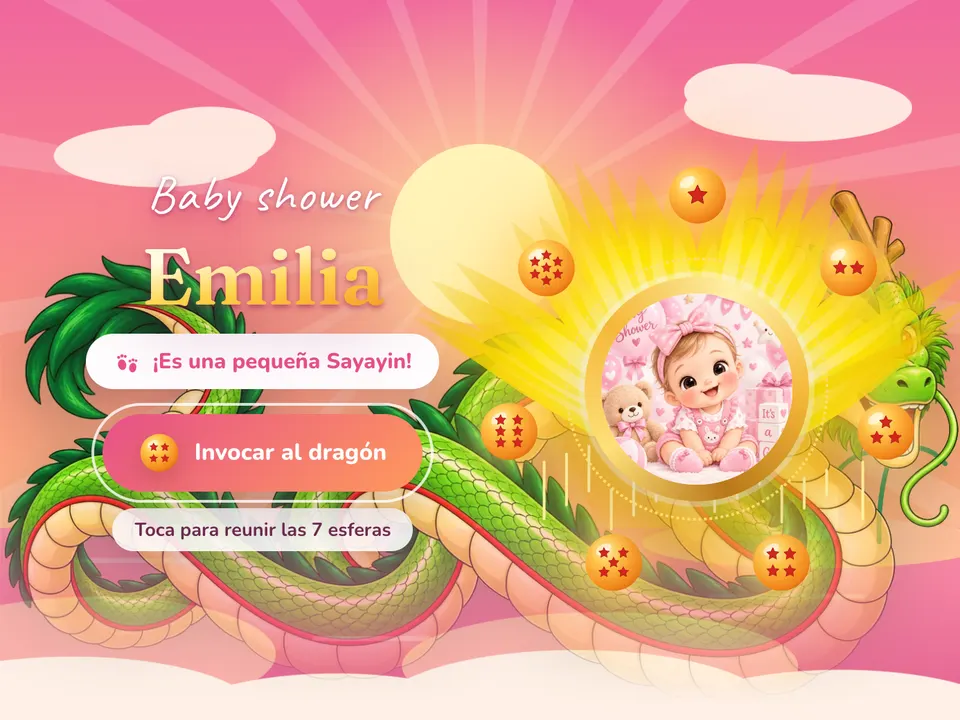
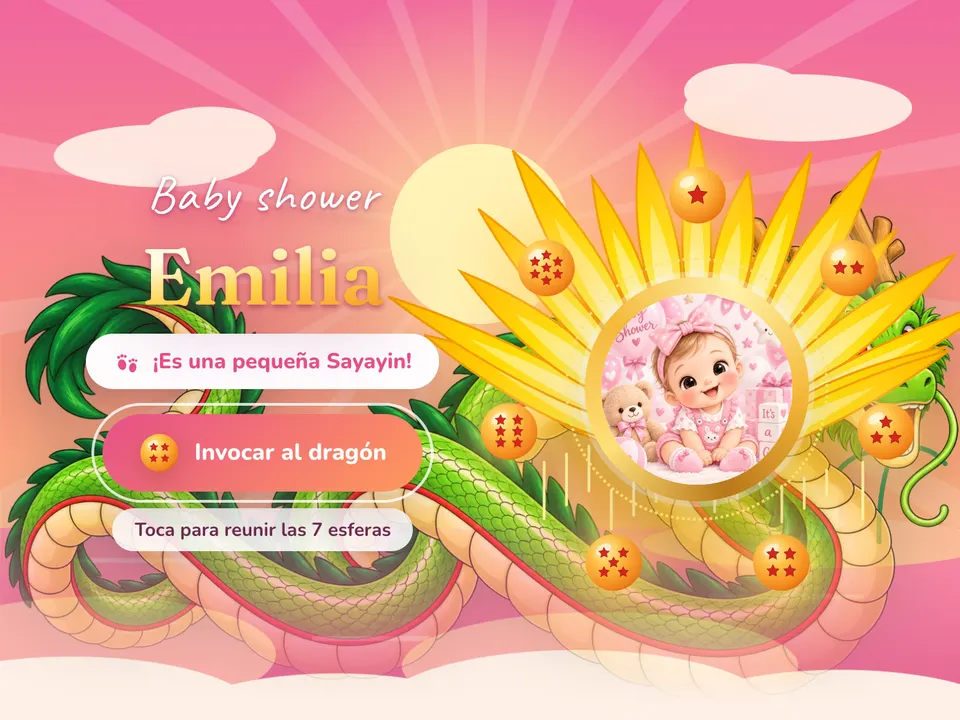
Baby shower dragón: rayos del aura con punta y cápsula que navega por la pantalla

Changed region(s): [[0.4062, 0.1833, 1.0, 0.6111], [0.7812, 0.6722, 0.8438, 0.7333], [0.5625, 0.6722, 0.5938, 0.7028]]

diff --git a/src/templates/baby-shower-dragon/styles.css b/src/templates/baby-shower-dragon/styles.css
@@ -1033,11 +1033,11 @@
 .bsd[data-lit] .bsd-cover__dragon {
   opacity: 0.96;
   transform: none;
-  transition: transform 2.4s cubic-bezier(0.2, 0.8, 0.2, 1) 2.1s, opacity 1s ease 2.1s;
+  transition: transform 2.4s cubic-bezier(0.2, 0.8, 0.2, 1) 3.9s, opacity 1s ease 3.9s;
 }
 
 .bsd[data-open] .bsd-eyebrow {
-  animation: bsd-pop 0.7s cubic-bezier(0.3, 1.5, 0.5, 1) 2s both;
+  animation: bsd-pop 0.7s cubic-bezier(0.3, 1.5, 0.5, 1) 3.6s both;
 }
 
 @keyframes bsd-orbit {
@@ -1098,7 +1098,7 @@
   z-index: -1;
   background: radial-gradient(closest-side, rgb(110 20 60 / 0.55), transparent);
   opacity: 0;
-  transition: opacity 1s ease 2.1s;
+  transition: opacity 1s ease 3.6s;
   pointer-events: none;
 }
 
@@ -1219,7 +1219,6 @@
   transform: translate(-50%, -50%);
   overflow: visible;
   pointer-events: none;
-  filter: drop-shadow(0 0 14px rgb(255 200 40 / 0.7));
 }
 
 .bsd-aura__flame {
@@ -1268,7 +1267,7 @@
 
 /* El dragón se mueve con calma: sube y baja con un poco de zoom (después de aparecer) */
 .bsd[data-lit] .bsd-cover__dragon {
-  animation: bsd-drift 9s ease-in-out 4.6s infinite alternate;
+  animation: bsd-drift 9s ease-in-out 6.5s infinite alternate;
 }
 
 .bsd[data-calm] .bsd-cover__dragon {
@@ -1355,7 +1354,7 @@
   }
 }
 
-/* Portada: la cápsula al centro; al invocar gira una vuelta completa, destella y aparece la foto en su lugar */
+/* Portada: la cápsula al centro; al invocar navega por la pantalla, vuelve al centro, destella y aparece la foto */
 .bsd-stage__pod {
   position: absolute;
   top: 50%;
@@ -1383,18 +1382,24 @@
 .bsd[data-lit] .bsd-stage .bsd-medallion {
   opacity: 1;
   transform: none;
-  transition: opacity 0.5s ease 1.45s, transform 0.7s cubic-bezier(0.2, 1.4, 0.4, 1) 1.45s;
+  transition: opacity 0.5s ease 3.15s, transform 0.7s cubic-bezier(0.2, 1.4, 0.4, 1) 3.15s;
 }
 
 .bsd[data-lit] .bsd-stage__pod {
-  animation: bsd-pod-spin 1.7s cubic-bezier(0.5, 0, 0.3, 1) both;
+  animation: bsd-pod-fly 3.4s linear both;
 }
 
-@keyframes bsd-pod-spin {
-  0% { transform: rotate(0) scale(1); opacity: 1; filter: none; }
-  65% { transform: rotate(360deg) scale(1.12); opacity: 1; filter: none; }
-  85% { transform: rotate(360deg) scale(1.3); opacity: 1; filter: brightness(2.2); }
-  100% { transform: rotate(360deg) scale(1.6); opacity: 0; filter: brightness(3); }
+/* La cápsula navega: sale por la izquierda, reaparece por la derecha subiendo y vuelve al centro */
+@keyframes bsd-pod-fly {
+  0% { transform: translate(0, 0) rotate(0); opacity: 1; filter: none; animation-timing-function: cubic-bezier(0.5, 0, 0.9, 0.6); }
+  24% { transform: translate(-125vw, -4vh) rotate(-10deg); opacity: 1; }
+  24.2% { transform: translate(-125vw, -4vh) rotate(-10deg); opacity: 0; }
+  24.4% { transform: translate(125vw, 14vh) rotate(-4deg); opacity: 0; }
+  24.6% { transform: translate(125vw, 14vh) rotate(-4deg); opacity: 1; animation-timing-function: cubic-bezier(0.2, 0.6, 0.4, 1); }
+  62% { transform: translate(52vw, -16vh) rotate(-14deg); opacity: 1; }
+  86% { transform: translate(0, 0) rotate(0); opacity: 1; filter: none; }
+  93% { transform: translate(0, 0) scale(1.3); opacity: 1; filter: brightness(2.2); }
+  100% { transform: translate(0, 0) scale(1.6); opacity: 0; filter: brightness(3); }
 }
 
 /* Sin animación (miniatura, movimiento reducido): directo a la foto */

diff --git a/src/templates/baby-shower-dragon/Dragon.jsx b/src/templates/baby-shower-dragon/Dragon.jsx
@@ -93,15 +93,15 @@ const jit = (i) => ((i * 37 + 11) % 13) / 13; // 0..1 fijo: el render es estable
 // Cada rayo: [x de la base, y de la base, ángulo (grados desde arriba), largo, medio ancho]
 const RAYS = (() => {
   const out = [];
-  for (let i = 0; i < 26; i++) {
-    const theta = -150 + i * (300 / 25); // posición sobre el aro (0 = arriba)
+  for (let i = 0; i < 17; i++) {
+    const theta = -152 + i * (304 / 16); // posición sobre el aro (0 = arriba)
     const rad = (theta * Math.PI) / 180;
-    const bx = Math.sin(rad) * 46;
-    const by = -Math.cos(rad) * 46;
+    const bx = Math.sin(rad) * 44;
+    const by = -Math.cos(rad) * 44;
     const side = Math.min(1, Math.abs(theta) / 110);
-    const dir = Math.max(-62, Math.min(62, theta * 0.52)) + (jit(i) - 0.5) * 12;
-    const len = 62 + side * 58 + jit(i + 5) * 34;
-    out.push([bx, by, dir, len, 5.5 + jit(i + 2) * 4]);
+    const dir = Math.max(-64, Math.min(64, theta * 0.55));
+    const len = 78 + side * 46 + (i % 3) * 16;
+    out.push([bx, by, dir, len, 7 + (i % 2) * 2]);
   }
   return out;
 })();
@@ -129,20 +129,20 @@ export function Aura({ className = "" }) {
           <stop offset="1" stopColor="#ffb000" stopOpacity="0" />
         </radialGradient>
         <linearGradient id="bsd-ki-ray" x1="0" y1="1" x2="0" y2="0">
-          <stop offset="0" stopColor="#fff9a0" />
-          <stop offset=".4" stopColor="#ffea00" />
-          <stop offset="1" stopColor="#e8b800" stopOpacity=".15" />
+          <stop offset="0" stopColor="#fff7a0" />
+          <stop offset=".5" stopColor="#ffe100" />
+          <stop offset="1" stopColor="#ffb800" />
         </linearGradient>
         <linearGradient id="bsd-ki-core" x1="0" y1="1" x2="0" y2="0">
           <stop offset="0" stopColor="#ffffff" />
-          <stop offset="1" stopColor="#fff36a" stopOpacity=".1" />
+          <stop offset="1" stopColor="#fff36a" />
         </linearGradient>
       </defs>
       <ellipse className="bsd-aura__glow" cx="0" cy="0" rx="108" ry="112" fill="url(#bsd-ki-glow)" />
       {RAYS.map(([x, y, dir, len, w], i) => (
         <g key={i} transform={`translate(${x.toFixed(1)} ${y.toFixed(1)}) rotate(${dir.toFixed(1)})`}>
           <g className="bsd-aura__flame" style={{ "--d": `${-((i * 0.13) % 0.55)}s` }}>
-            <path d={leaf(w, len)} fill="url(#bsd-ki-ray)" />
+            <path d={leaf(w, len)} fill="url(#bsd-ki-ray)" stroke="#f29a00" strokeWidth="1.3" strokeLinejoin="miter" />
             <path d={leaf(w * 0.5, len * 0.66)} fill="url(#bsd-ki-core)" opacity=".8" />
           </g>
         </g>

diff --git a/docs/CAMBIOS.md b/docs/CAMBIOS.md
@@ -296,3 +296,8 @@ Verificación: `npm test` 80/80 · `npm run smoke` 5/5 tamaños (sin errores de 
 
 - Aura: cada rayo tiene forma de hoja (chico en la base, más ancho hacia el medio, punta arriba).
 - Portada: antes de invocar, la cápsula (`Pod`) espera al centro con sus esferas apagadas. Al tocar "Invocar al dragón" da un giro completo, destella y en su lugar aparece la foto con el aura. Miniatura y movimiento reducido van directo a la foto.
+
+## Baby shower dragón: rayos con punta y cápsula que navega
+
+- Aura: rayos más separados, opacos (sin desvanecer la punta) y con contorno, para que cada uno termine en punta clara.
+- Portada: al invocar, la cápsula sale por la izquierda, reaparece por la derecha subiendo y vuelve al centro (3,4 s); luego destella y aparece la foto. El dragón, el título y el velo esperan a que termine.
